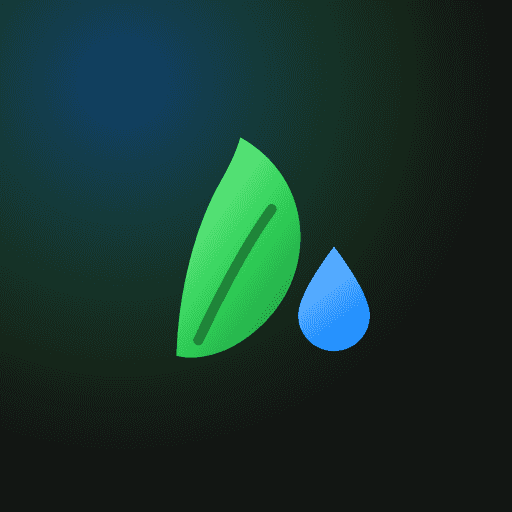
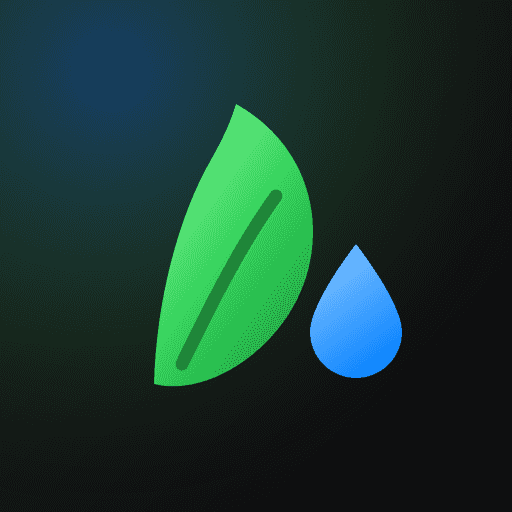
PWA: perbaiki prompt update, guard install, dan status offline [v2.0.0]
- update: 'Nanti' memakai setter needRefresh plugin, rilis berikutnya memunculkan banner lagi
- install: guard ref mencegah prompt() dipanggil dua kali + selalu lepas prompt
- offline: polling sensor/relay berhenti, label 'data terakhir' dan badge Offline konsisten
- ikon: satu sumber (public/icon.svg) + web/pwa-assets.config.mjs, hapus duplikat ikon maskable

Changed region(s): [[0.2812, 0.1875, 0.8125, 0.7812]]

diff --git a/web/src/components/PwaStatus.jsx b/web/src/components/PwaStatus.jsx
@@ -1,4 +1,4 @@
-import { useCallback, useEffect, useRef, useState } from 'react'
+import { createContext, useCallback, useContext, useEffect, useRef, useState } from 'react'
 import { useRegisterSW } from 'virtual:pwa-register/react'
 import { Download, RefreshCw, WifiOff } from 'lucide-react'
 import { useToast } from '../features/iot/Toast.jsx'
@@ -29,6 +29,21 @@ function isStandalone() {
   )
 }
 
+// Status PWA dibagikan ke seluruh halaman supaya badge koneksi di dalam
+// dashboard tidak bertentangan dengan banner offline.
+const PwaStatusContext = createContext(null)
+
+export function PwaProvider({ value, children }) {
+  return <PwaStatusContext.Provider value={value}>{children}</PwaStatusContext.Provider>
+}
+
+export function usePwaStatus() {
+  const ctx = useContext(PwaStatusContext)
+  // Fallback aman bila komponen dipakai di luar App (mis. test/storybook).
+  if (ctx) return ctx
+  return { online: typeof navigator === 'undefined' ? true : navigator.onLine }
+}
+
 // Status PWA: ketersediaan update, tombol install, dan status jaringan.
 export function usePwa() {
   const { offlineReady, needRefresh, updateServiceWorker } = useRegisterSW({ immediate: true })
@@ -36,10 +51,10 @@ export function usePwa() {
 
   const [installPrompt, setInstallPrompt] = useState(deferredPrompt)
   const [installed, setInstalled] = useState(isStandalone)
+  const [installing, setInstalling] = useState(false)
   const [online, setOnline] = useState(() =>
     typeof navigator === 'undefined' ? true : navigator.onLine
   )
-  const [dismissedUpdate, setDismissedUpdate] = useState(false)
   const offlineNotified = useRef(false)
 
   useEffect(() => {
@@ -75,21 +90,28 @@ export function usePwa() {
     toast.success('Aplikasi siap dipakai offline.')
   }, [offlineReady, toast])
 
-  // Setelah update dipasang (needRefresh kembali false), izinkan prompt lagi
-  // untuk rilis berikutnya.
-  useEffect(() => {
-    if (!needRefresh[0]) setDismissedUpdate(false)
-  }, [needRefresh])
-
+  // `beforeinstallprompt` hanya boleh di-prompt sekali. Kunci selama dialog
+  // terbuka agar klik ganda tidak memicu InvalidStateError, dan selalu lepas
+  // prompt-nya di akhir supaya tombol tidak tertinggal dalam keadaan error.
+  // Ref dipakai (bukan hanya state) karena dua klik bisa terjadi dalam satu
+  // tick sebelum React sempat re-render.
+  const installBusy = useRef(false)
   const promptInstall = useCallback(async () => {
-    if (!installPrompt) return
-    installPrompt.prompt()
-    const choice = await installPrompt.userChoice
-    if (choice?.outcome === 'accepted') setInstalled(true)
-    publishPrompt(null)
+    if (!installPrompt || installBusy.current) return
+    installBusy.current = true
+    setInstalling(true)
+    try {
+      installPrompt.prompt()
+      const choice = await installPrompt.userChoice
+      if (choice?.outcome === 'accepted') setInstalled(true)
+    } catch {
+      // Prompt ditolak/diabaikan browser: tombol install disembunyikan saja.
+    } finally {
+      publishPrompt(null)
+      installBusy.current = false
+      setInstalling(false)
+    }
   }, [installPrompt])
-
-  const needRefreshValue = needRefresh[0] && !dismissedUpdate
 
   const applyUpdate = useCallback(() => {
     updateServiceWorker(true)
@@ -97,10 +119,13 @@ export function usePwa() {
 
   return {
     online,
-    needRefresh: needRefreshValue,
+    // `needRefresh` dari plugin hanya kembali false setelah reload, jadi
+    // "Nanti" memakai setter-nya sendiri: rilis berikutnya tetap memunculkan
+    // banner lagi tanpa harus reload halaman.
+    needRefresh: needRefresh[0],
     applyUpdate,
-    dismissUpdate: () => setDismissedUpdate(true),
-    canInstall: Boolean(installPrompt) && !installed,
+    dismissUpdate: () => needRefresh[1](false),
+    canInstall: Boolean(installPrompt) && !installed && !installing,
     promptInstall,
   }
 }
@@ -117,7 +142,8 @@ export function OfflineBanner({ online }) {
       <div className="mx-auto flex max-w-7xl items-center gap-2">
         <WifiOff size={14} aria-hidden="true" className="shrink-0" />
         <span>
-          Offline — tampilan aplikasi tetap terbuka, tapi data sensor dan perintah tidak tersedia.
+          Offline — aplikasi tetap terbuka, tapi data sensor tidak diperbarui dan perintah tidak
+          dapat dikirim.
         </span>
       </div>
     </div>

diff --git a/web/src/features/iot/ListrikPage.jsx b/web/src/features/iot/ListrikPage.jsx
@@ -2,9 +2,10 @@ import { useEffect, useMemo, useState } from 'react'
 import { useNavigate } from 'react-router-dom'
 import { useSensorData } from './useSensorData.js'
 import { useToast } from './Toast.jsx'
+import { usePwaStatus } from '../../components/PwaStatus.jsx'
 import PzemChart from './PzemChart.jsx'
 import PzemTable from './PzemTable.jsx'
-import { isOnline, FILTERS, timeLabel } from './utils.js'
+import { connectionState, lastUpdateLabel, FILTERS, timeLabel } from './utils.js'
 import {
   PZEM_METRICS,
   PZEM_ORDER,
@@ -67,6 +68,7 @@ function PzemCard({ metricKey, row, onOpenTrend }) {
 export default function ListrikPage() {
   const navigate = useNavigate()
   const toast = useToast()
+  const { online: networkOnline } = usePwaStatus()
   const now = useClock()
   const [filter, setFilter] = useState('realtime')
   const [tariffInput, setTariffInput] = useState(() => {
@@ -76,10 +78,16 @@ export default function ListrikPage() {
   // Data PZEM dikirim ~1 Hz, tapi query InfluxDB-nya berat: poll 1 detik
   // membuat request saling menyusul. 2 detik + anti-pileup di useSensorData
   // membuat dashboard tetap terasa realtime tanpa membebani server.
-  const { data, loading, error, energy } = useSensorData({ filter, domain: 'listrik', pollMs: 2000 })
+  const { data, loading, error, energy } = useSensorData({
+    filter,
+    domain: 'listrik',
+    pollMs: 2000,
+    enabled: networkOnline,
+  })
 
   const latest = data.length ? data[data.length - 1] : null
-  const online = isOnline(latest?.waktu)
+  const status = connectionState(latest?.waktu, networkOnline)
+  const online = status === 'online'
   const labels = data.map((row) => timeLabel(row.waktu))
 
   const tariff = parseTariff(tariffInput)
@@ -121,9 +129,7 @@ export default function ListrikPage() {
           </div>
         </div>
         <div className="text-[13px] text-text-low mt-4">
-          {latest
-            ? `Diperbarui: ${new Date(latest.waktu).toLocaleString('id-ID')}`
-            : 'Memperbarui data...'}
+          {lastUpdateLabel(latest?.waktu, networkOnline)}
         </div>
         <div className="mt-4">
           <span
@@ -134,7 +140,7 @@ export default function ListrikPage() {
                   : 'bg-[rgba(255,69,58,0.2)] text-ios-red border border-ios-red [box-shadow:0_0_10px_rgba(255,69,58,0.3)]'
               }`}
           >
-            {latest ? (online ? 'Online' : 'Offline') : 'Menghubungkan...'}
+            {status === 'connecting' ? 'Menghubungkan...' : online ? 'Online' : 'Offline'}
           </span>
         </div>
 

diff --git a/web/src/features/iot/MonitoringPage.jsx b/web/src/features/iot/MonitoringPage.jsx
@@ -2,6 +2,7 @@ import { useEffect, useState } from 'react'
 import { useNavigate } from 'react-router-dom'
 import { useSensorData } from './useSensorData.js'
 import { useToast } from './Toast.jsx'
+import { usePwaStatus } from '../../components/PwaStatus.jsx'
 import SummaryCard from './SummaryCard.jsx'
 import SensorChart from './SensorChart.jsx'
 import ActuatorPanel from './ActuatorPanel.jsx'
@@ -12,8 +13,9 @@ import {
   SENSORS,
   SENSOR_ORDER,
   alertCardClass,
+  connectionState,
   downloadSensorCSV,
-  isOnline,
+  lastUpdateLabel,
   sensorValue,
   timeLabel,
 } from './utils.js'
@@ -32,12 +34,16 @@ function useClock() {
 export default function MonitoringPage() {
   const navigate = useNavigate()
   const toast = useToast()
+  const { online: networkOnline } = usePwaStatus()
   const now = useClock()
   const [filter, setFilter] = useState('realtime')
-  const { data, loading, error } = useSensorData({ filter })
+  // Saat offline, polling dihentikan: request pasti gagal dan hanya membuat
+  // status "Online" dari data lama menyesatkan.
+  const { data, loading, error } = useSensorData({ filter, enabled: networkOnline })
 
   const latest = data.length ? data[data.length - 1] : null
-  const online = isOnline(latest?.waktu)
+  const status = connectionState(latest?.waktu, networkOnline)
+  const online = status === 'online'
   const labels = data.map((row) => timeLabel(row.waktu))
 
   function handleExport() {
@@ -67,9 +73,7 @@ export default function MonitoringPage() {
           </div>
         </div>
         <div className="text-[13px] text-text-low mt-4">
-          {latest
-            ? `Diperbarui: ${new Date(latest.waktu).toLocaleString('id-ID')}`
-            : 'Memperbarui data...'}
+          {lastUpdateLabel(latest?.waktu, networkOnline)}
         </div>
         <div className="mt-4">
           <span
@@ -80,7 +84,7 @@ export default function MonitoringPage() {
                   : 'bg-[rgba(255,69,58,0.2)] text-ios-red border border-ios-red [box-shadow:0_0_10px_rgba(255,69,58,0.3)]'
               }`}
           >
-            {latest ? (online ? 'Online' : 'Offline') : 'Menghubungkan...'}
+            {status === 'connecting' ? 'Menghubungkan...' : online ? 'Online' : 'Offline'}
           </span>
         </div>
 

diff --git a/web/src/features/iot/RelayPanel.jsx b/web/src/features/iot/RelayPanel.jsx
@@ -1,12 +1,16 @@
 import { useState } from 'react'
 import { kontrolRelay } from './api.js'
 import { useToast } from './Toast.jsx'
+import { usePwaStatus } from '../../components/PwaStatus.jsx'
 import { useRelayStatus } from './useSensorData.js'
 
 // Panel 4 relay: tombol toggle ON/OFF + sinkron status dari InfluxDB.
 export default function RelayPanel() {
   const toast = useToast()
-  const { relays, setRelay } = useRelayStatus()
+  const { online } = usePwaStatus()
+  // Saat offline polling dihentikan: request pasti gagal dan status relay
+  // hanya akan menampilkan nilai lama seolah masih berlaku.
+  const { relays, setRelay } = useRelayStatus({ enabled: online })
   const [busyId, setBusyId] = useState(null)
 
   async function toggle(idRelay) {
@@ -44,7 +48,8 @@ export default function RelayPanel() {
                 <button
                   type="button"
                   onClick={() => toggle(id)}
-                  disabled={busyId === id}
+                  disabled={busyId === id || !online}
+                  title={online ? undefined : 'Offline — perintah tidak dapat dikirim'}
                   className={`btn-ios w-full py-3 text-white disabled:opacity-60 ${
                     on ? 'bg-ios-green hover:shadow-glow-green' : 'bg-ios-blue hover:shadow-glow-blue'
                   }`}

diff --git a/web/src/features/iot/utils.js b/web/src/features/iot/utils.js
@@ -250,6 +250,27 @@ export function isOnline(latestWaktu) {
   return diff <= ONLINE_WINDOW_MS
 }
 
+// Label "Diperbarui" di header dashboard. Saat perangkat offline, nilai lama
+// tidak boleh tampil seolah-olah data terkini: tandai sebagai data terakhir.
+export function lastUpdateLabel(latestWaktu, networkOnline = true) {
+  if (!networkOnline) {
+    return latestWaktu
+      ? `Offline — data terakhir: ${new Date(latestWaktu).toLocaleString('id-ID')}`
+      : 'Offline — data sensor tidak tersedia'
+  }
+  return latestWaktu
+    ? `Diperbarui: ${new Date(latestWaktu).toLocaleString('id-ID')}`
+    : 'Memperbarui data...'
+}
+
+// Status koneksi yang ditampilkan di badge: gabungan status jaringan browser
+// dan kesegaran data terakhir.
+export function connectionState(latestWaktu, networkOnline = true) {
+  if (!networkOnline) return 'offline'
+  if (!latestWaktu) return 'connecting'
+  return isOnline(latestWaktu) ? 'online' : 'offline'
+}
+
 // Garis batas annotation per sensor (port dari index.html baris 480-491).
 const BORDER_STYLE = {
   borderColor: 'rgba(255, 69, 58, 0.6)',

diff --git a/web/src/App.jsx b/web/src/App.jsx
@@ -19,6 +19,7 @@ import ListrikPage from './features/iot/ListrikPage.jsx'
 import ListrikTrendPage from './features/iot/ListrikTrendPage.jsx'
 import {
   usePwa,
+  PwaProvider,
   OfflineBanner,
   InstallButton,
   UpdateBanner,
@@ -223,8 +224,9 @@ export default function App() {
   ]
 
   return (
-    <div className="min-h-screen">
-      <OfflineBanner online={pwa.online} />
+    <PwaProvider value={pwa}>
+      <div className="min-h-screen">
+        <OfflineBanner online={pwa.online} />
         <header className="sticky top-0 z-30 bg-surface-bg/90 backdrop-blur border-b border-white/10">
           <div className="max-w-7xl mx-auto px-4 py-3 flex items-center justify-between gap-4 flex-wrap">
             <div className="flex items-baseline gap-2">
@@ -279,6 +281,7 @@ export default function App() {
         onApply={pwa.applyUpdate}
         onDismiss={pwa.dismissUpdate}
       />
-    </div>
+      </div>
+    </PwaProvider>
   )
 }

diff --git a/web/src/features/iot/useSensorData.js b/web/src/features/iot/useSensorData.js
@@ -45,7 +45,12 @@ export function useSensorData({ filter = 'realtime', enabled = true, domain = 'h
   }, [domain])
 
   useEffect(() => {
-    if (!enabled) return undefined
+    if (!enabled) {
+      // Offline/polling dimatikan: jangan biarkan skeleton "memuat" selamanya,
+      // tapi juga jangan hapus data terakhir (dipakai sebagai penanda basi).
+      setLoading(false)
+      return undefined
+    }
     setLoading(true)
     fetchData(filter)
     timer.current = setInterval(() => fetchData(filter), pollMs)
